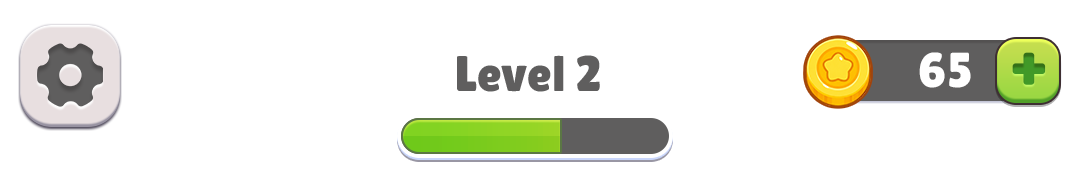
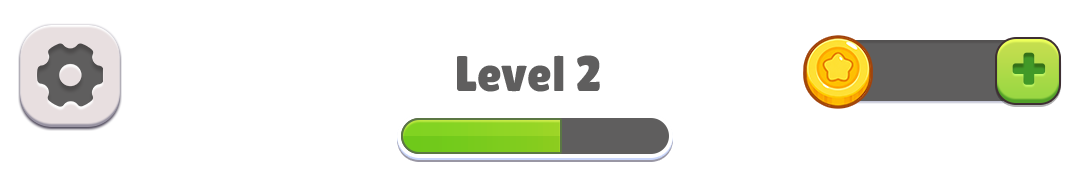
- added currency hud component

Changed region(s): [[0.825, 0.2841, 0.9167, 0.5114]]

diff --git a/unity-client/Assets/Client/Runtime/HUD/HUDComponent.cs b/unity-client/Assets/Client/Runtime/HUD/HUDComponent.cs
@@ -1,4 +1,3 @@
-using System;
 using System.Linq;
 using System.Threading;
 using Cysharp.Threading.Tasks;
@@ -15,6 +14,7 @@ namespace Client.Runtime
 {
     public sealed class HUDComponent : MonoBehaviour, IInjectable, IInitialisable, IResettable
     {
+        [SerializeField] private CurrencyHUDComponent _currencyHudComponent;
         [SerializeField] private Button _reset;
         [SerializeField] private Toggle _dropPieces;
         [SerializeField] private Button _eye;
@@ -35,9 +35,14 @@ namespace Client.Runtime
             _puzzleTray = resolver.Resolve<IPuzzleTray>();
             _helper = resolver.Resolve<IFullImageHandler>();
             _puzzleService = resolver.Resolve<IPuzzleService>();
+            _currencyHudComponent.Inject(resolver);
         }
 
-        public void Initialise() => RegisterEvents();
+        public void Initialise()
+        {
+            RegisterEvents();
+            _currencyHudComponent.Initialise();
+        }
 
         public void Reset()
         {
@@ -45,6 +50,7 @@ namespace Client.Runtime
             _sliderCts?.Cancel();
             _sliderCts?.Dispose();
             _sliderCts = null;
+            _currencyHudComponent.Reset();
         }
 
         private void RegisterEvents()

diff --git a/unity-client/Assets/Client/Runtime/HUD/CurrencyHUDComponent.cs b/unity-client/Assets/Client/Runtime/HUD/CurrencyHUDComponent.cs
@@ -1,0 +1,37 @@
+using TMPro;
+using UniTx.Runtime;
+using UniTx.Runtime.Entity;
+using UniTx.Runtime.IoC;
+using UnityEngine;
+
+namespace Client.Runtime
+{
+    public sealed class CurrencyHUDComponent : MonoBehaviour, IInitialisable, IResettable, IInjectable
+    {
+        [SerializeField] private string _currencyId;
+        [SerializeField] private TMP_Text _txtAmount;
+
+        private IEntityService _entityService;
+        private ICurrency _currency;
+
+        public void Inject(IResolver resolver) => _entityService = resolver.Resolve<IEntityService>();
+
+        public void Initialise()
+        {
+            _currency = _entityService.Get<ICurrency>(_currencyId);
+            UpdateText(_currency.Amount);
+            _currency.OnValueChanged += HandleValueChanged;
+        }
+
+        public void Reset()
+        {
+            _currency.OnValueChanged -= HandleValueChanged;
+            _currency = null;
+            UpdateText(0);
+        }
+
+        private void HandleValueChanged(ValueChangedData data) => UpdateText(data.NewValue);
+
+        private void UpdateText(double amount) => _txtAmount.SetText($"{amount}");
+    }
+}
